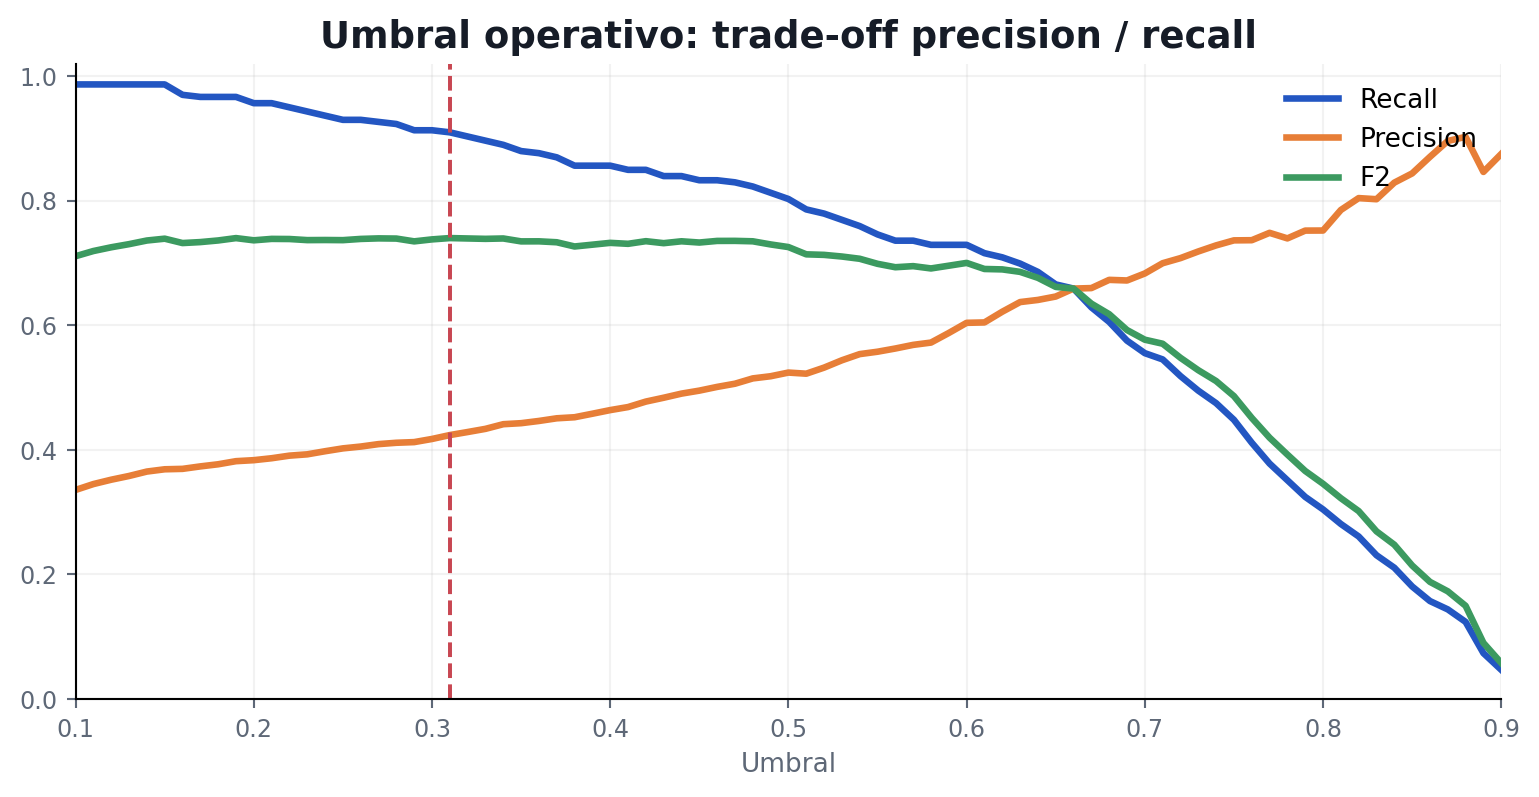
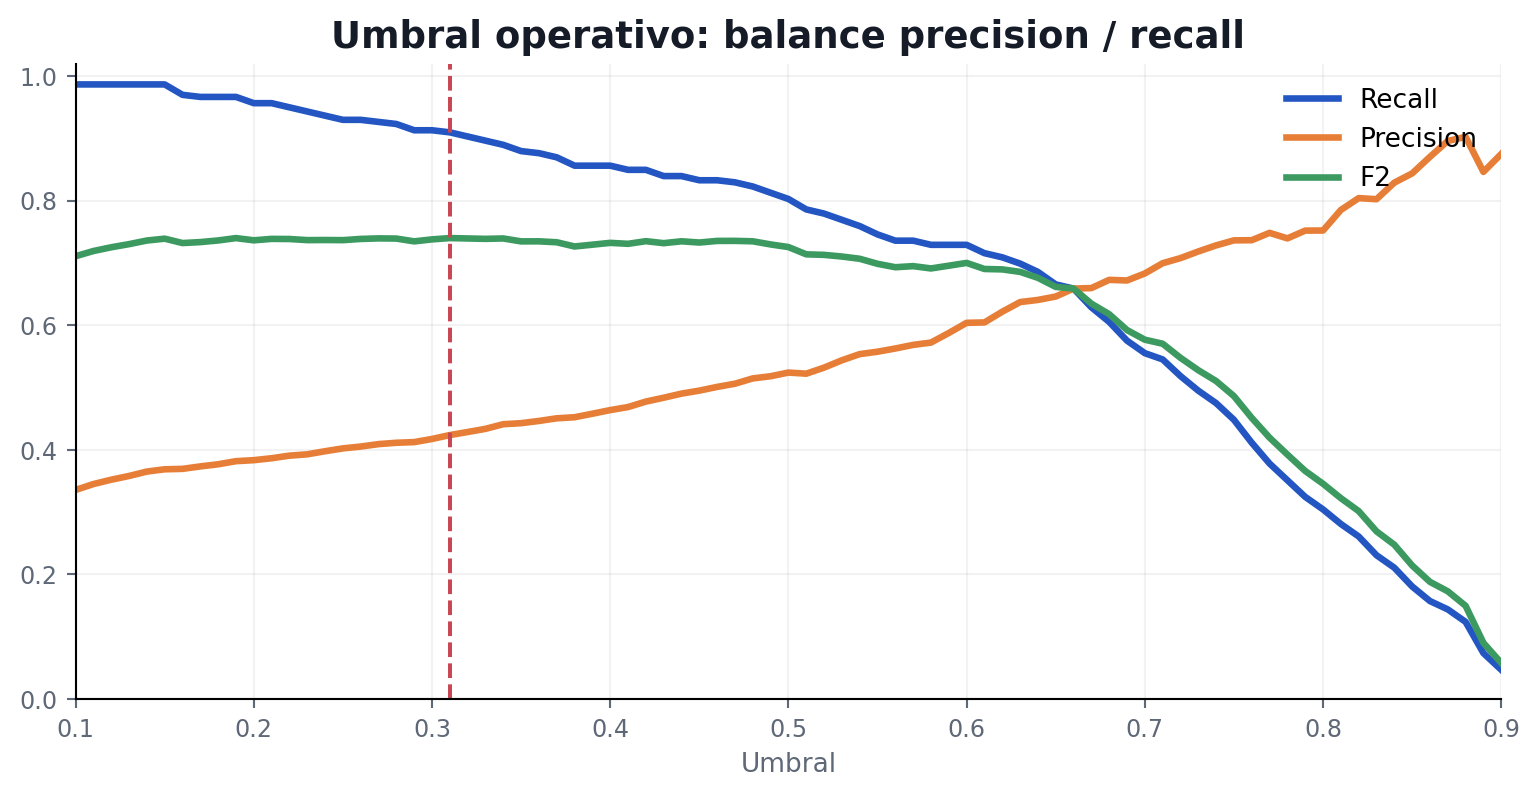
Revise final presentation content

Changed region(s): [[0.1871, 0.0301, 0.8421, 0.0602]]

diff --git a/presentation/final/build_redesigned_presentation.py b/presentation/final/build_redesigned_presentation.py
@@ -83,45 +83,33 @@ def style_ax(ax):
 
 
 def make_assets(df, metrics, cv, thresholds, preds, perm, shap):
-    # EDA: churn rate vs multiple variables/categories.
+    # EDA: churn rate vs multiple variables/categories. More legible grouped bars.
     variables = {
         "Contract": "Contrato",
         "InternetService": "Internet",
-        "PaymentMethod": "Pago",
+        "PaymentMethod": "Metodo de pago",
         "OnlineSecurity": "Seguridad online",
         "TechSupport": "Soporte tecnico",
         "PaperlessBilling": "Factura digital",
-        "Dependents": "Dependientes",
-        "Partner": "Pareja",
     }
     rows = []
     for col, label in variables.items():
-        rates = df.groupby(col)["churn_num"].mean().sort_values()
+        rates = df.groupby(col)["churn_num"].mean().sort_values(ascending=False)
         for cat, rate in rates.items():
-            rows.append({"variable": label, "category": str(cat), "rate": rate})
-    plot = pd.DataFrame(rows)
-    order = (
-        plot.groupby("variable")["rate"].agg(lambda s: s.max() - s.min())
-        .sort_values(ascending=True)
-        .index.tolist()
-    )
-    y_map = {v: i for i, v in enumerate(order)}
-    fig, ax = plt.subplots(figsize=(9.2, 5.0))
-    for variable in order:
-        sub = plot[plot["variable"] == variable]
-        y = y_map[variable]
-        ax.plot([sub["rate"].min(), sub["rate"].max()], [y, y], color=M["line"], linewidth=4, zorder=1)
-        for _, r in sub.iterrows():
-            color = M["orange"] if r["rate"] >= df["churn_num"].mean() else M["blue"]
-            ax.scatter(r["rate"], y, s=95, color=color, edgecolor="white", linewidth=1.2, zorder=3)
-            ax.text(r["rate"] + 0.009, y + 0.06, r["category"][:18], fontsize=8, color=M["muted"])
+            rows.append({"variable": label, "category": str(cat), "label": f"{label}: {str(cat)}", "rate": rate})
+    plot = pd.DataFrame(rows).sort_values("rate", ascending=True)
+    fig, ax = plt.subplots(figsize=(9.5, 5.2))
+    colors = [M["orange"] if v >= df["churn_num"].mean() else M["blue"] for v in plot["rate"]]
+    ax.barh(plot["label"], plot["rate"], color=colors, height=0.58)
     ax.axvline(df["churn_num"].mean(), color=M["red"], linestyle="--", linewidth=1.5)
-    ax.text(df["churn_num"].mean() + 0.01, len(order) - 0.45, f"media {pct(df['churn_num'].mean())}", color=M["red"], fontsize=9, weight="bold")
-    ax.set_yticks(range(len(order)), order)
-    ax.set_xlim(0, 0.5)
-    ax.set_xlabel("Tasa de churn por categoria")
-    ax.set_title("Tasa de churn cruzada por variables relevantes", fontsize=14, weight="bold")
+    ax.text(df["churn_num"].mean() + 0.008, -0.75, f"media {pct(df['churn_num'].mean())}", color=M["red"], fontsize=9, weight="bold")
+    for i, r in enumerate(plot.itertuples()):
+        ax.text(r.rate + 0.006, i, pct(r.rate), va="center", fontsize=8.8, color=M["ink"], weight="bold")
+    ax.set_xlim(0, 0.52)
+    ax.set_xlabel("Tasa de churn")
+    ax.set_title("Tasa de churn por categoria: principales variables", fontsize=14, weight="bold")
     style_ax(ax)
+    ax.grid(axis="x", alpha=0.18)
     save(ASSETS / "eda_churn_rate_variables.png")
 
     # Model PR-AUC with 10 tests.
@@ -178,10 +166,24 @@ def make_assets(df, metrics, cv, thresholds, preds, perm, shap):
     ax.set_xlim(0.1, 0.9)
     ax.set_ylim(0, 1.02)
     ax.set_xlabel("Umbral")
-    ax.set_title("Umbral operativo: trade-off precision / recall", fontsize=14, weight="bold")
+    ax.set_title("Umbral operativo: balance precision / recall", fontsize=14, weight="bold")
     ax.legend(frameon=False, loc="upper right")
     style_ax(ax)
     save(ASSETS / "threshold_precision_recall.png")
+
+    # Confusion matrix.
+    cm = pd.crosstab(preds["y_true_label"], preds["churn_prediction_label"]).reindex(index=["No", "Yes"], columns=["No", "Yes"], fill_value=0)
+    fig, ax = plt.subplots(figsize=(5.0, 4.2))
+    im = ax.imshow(cm.values, cmap="Blues")
+    ax.set_xticks([0, 1], ["Pred No", "Pred Churn"])
+    ax.set_yticks([0, 1], ["Real No", "Real Churn"])
+    ax.set_title("Matriz de confusion en test", fontsize=14, weight="bold")
+    for i in range(2):
+        for j in range(2):
+            ax.text(j, i, str(cm.values[i, j]), ha="center", va="center", fontsize=17, weight="bold", color=M["ink"])
+    ax.tick_params(labelsize=10)
+    plt.colorbar(im, ax=ax, fraction=0.046, pad=0.04)
+    save(ASSETS / "confusion_matrix.png")
 
     # Feature importance.
     top = perm.head(10).sort_values("importance_mean")
@@ -199,23 +201,6 @@ def make_assets(df, metrics, cv, thresholds, preds, perm, shap):
     ax.set_title("SHAP global del modelo final", fontsize=14, weight="bold")
     style_ax(ax)
     save(ASSETS / "importance_shap.png")
-
-    # Capture curve.
-    ranked = preds.sort_values("churn_probability", ascending=False).copy()
-    ranked["portfolio_share"] = np.arange(1, len(ranked) + 1) / len(ranked)
-    ranked["captured_churn"] = ranked["y_true"].cumsum() / ranked["y_true"].sum()
-    fig, ax = plt.subplots(figsize=(7.8, 4.3))
-    ax.plot(ranked["portfolio_share"], ranked["captured_churn"], color=M["blue"], linewidth=2.8)
-    ax.plot([0, 1], [0, 1], color=M["muted"], linestyle="--")
-    for cut in [0.2, 0.4, 0.6]:
-        captured = ranked.loc[ranked["portfolio_share"] <= cut, "y_true"].sum() / ranked["y_true"].sum()
-        ax.scatter([cut], [captured], color=M["orange"], s=70)
-        ax.text(cut + 0.02, captured, f"Top {int(cut*100)}%: {pct(captured,0)}", fontsize=9, weight="bold")
-    ax.set_xlabel("Porcentaje de cartera accionada")
-    ax.set_ylabel("Churners capturados")
-    ax.set_title("Curva de captura de churners", fontsize=14, weight="bold")
-    style_ax(ax)
-    save(ASSETS / "capture_curve.png")
 
 
 def add_bg(slide):
@@ -292,6 +277,10 @@ def footer(slide, n):
     textbox(slide, f"Churn Telco · Examen Final · {n:02d}", 0.48, 5.28, 4.5, 0.18, 7.5, MUTED)
 
 
+def small_note(slide, text, x, y, w, h, color=MUTED):
+    return textbox(slide, text, x, y, w, h, 9.5, color)
+
+
 def build_deck(df, metrics, cv, preds, checks):
     prs = Presentation()
     prs.slide_width = Inches(10)
@@ -304,135 +293,159 @@ def build_deck(df, metrics, cv, preds, checks):
         footer(s, n)
         return s
 
+    raw_predictors = 19
+    total_vars = 21
+    churn_count = int(df["churn_num"].sum())
+    no_churn_count = int(len(df) - churn_count)
+
     # 1 portada
     s = prs.slides.add_slide(prs.slide_layouts[6])
     bg = s.shapes.add_shape(1, 0, 0, Inches(10), Inches(5.625))
     bg.fill.solid(); bg.fill.fore_color.rgb = INK; bg.line.fill.background()
-    textbox(s, "ANALISIS PREDICTIVO · EXAMEN FINAL", 0.6, 0.55, 5.5, 0.3, 9.5, RGBColor(146, 196, 255), True)
+    textbox(s, "ANALISIS PREDICTIVO - EXAMEN FINAL", 0.6, 0.55, 5.5, 0.3, 9.5, RGBColor(146, 196, 255), True)
     textbox(s, "Prediccion de churn en clientes Telco", 0.6, 1.15, 6.8, 0.95, 31, WHITE, True)
-    textbox(s, "Modelo final CatBoost · seleccion por PR-AUC · umbral optimizado por F2", 0.64, 2.1, 6.8, 0.35, 13, RGBColor(205, 215, 230))
-    card(s, "CHURN", pct(df["churn_num"].mean()), "tasa observada", 0.75, 3.55, 1.7, 0.95, ORANGE)
-    card(s, "CLIENTES", f"{len(df):,}".replace(",", "."), "dataset IBM", 2.75, 3.55, 1.7, 0.95, TEAL)
-    card(s, "PR-AUC TEST", num(metrics["test_pr_auc"]), "modelo final", 4.75, 3.55, 1.7, 0.95, GREEN)
-    card(s, "RECALL", pct(metrics["test_recall"]), "umbral 0.31", 6.75, 3.55, 1.7, 0.95, BLUE)
+    textbox(s, "Caso de negocio, modelo predictivo y accion comercial sobre clientes con riesgo de baja", 0.64, 2.1, 7.3, 0.35, 13, RGBColor(205, 215, 230))
+    card(s, "CLIENTES", f"{len(df):,}".replace(",", "."), "dataset IBM", 0.75, 3.55, 1.7, 0.95, TEAL)
+    card(s, "CHURN", pct(df["churn_num"].mean()), f"{churn_count} clientes", 2.75, 3.55, 1.7, 0.95, ORANGE)
+    card(s, "MODELO", "CatBoost", "mejor PR-AUC", 4.75, 3.55, 1.7, 0.95, GREEN)
+    card(s, "RECALL", pct(metrics["test_recall"]), "test", 6.75, 3.55, 1.7, 0.95, BLUE)
 
-    # 2 caso
-    s = new("1 · Caso de negocio", "Priorizar retencion antes de que ocurra la baja", 2)
+    # 2 caso de negocio
+    s = new("1 - Caso de negocio", "Predecir churn para priorizar retencion rentable", 2)
+    card(s, "TARGET", "Churn", "Yes si el cliente se dio de baja", 0.65, 1.32, 2.1, 0.95, ORANGE)
+    card(s, "BASE", f"{len(df):,}".replace(",", "."), f"{churn_count} churners vs {no_churn_count} no churn", 3.0, 1.32, 2.1, 0.95, TEAL)
+    card(s, "TASA", pct(df["churn_num"].mean()), "clase positiva minoritaria", 5.35, 1.32, 1.65, 0.95, RED)
+    card(s, "OBJETIVO", "score", "probabilidad de churn por cliente", 7.25, 1.32, 2.0, 0.95, BLUE)
     bullets(s, [
-        "Objetivo: estimar riesgo de churn por cliente activo.",
-        "Decision: ordenar la cartera para acciones de retencion.",
-        "Valor: usar datos de contrato, servicios y facturacion para llegar antes.",
-        "Trade-off: priorizamos recall, pero monitoreamos precision para no sobreactuar."
-    ], 0.7, 1.45, 5.2, 2.25, 14)
-    card(s, "SALIDA", "score", "probabilidad de churn", 6.35, 1.45, 2.6, 0.95, BLUE)
-    card(s, "USO", "ranking", "agenda de retencion", 6.35, 2.65, 2.6, 0.95, GREEN)
-    card(s, "RIESGO", "falsos +", "costo comercial", 6.35, 3.85, 2.6, 0.95, RED)
+        "Problema: una telco pierde ingreso recurrente cuando un cliente abandona el servicio.",
+        "Decision de negocio: ordenar clientes activos por riesgo y priorizar acciones de retencion.",
+        "Regla economica: adquirir un cliente nuevo suele costar 5 a 25 veces mas que retener uno existente (HBR/Bain).",
+        "Impacto esperado: incluso mejoras chicas de retencion pueden tener efecto grande en rentabilidad; el modelo ayuda a enfocar el esfuerzo comercial."
+    ], 0.78, 2.75, 8.5, 1.55, 12.2)
+    small_note(s, "Nota: el modelo no decide la oferta; entrega un ranking para que negocio defina accion, costo y capacidad.", 0.85, 4.75, 8.2, 0.28)
 
     # 3 dataset
-    s = new("2 · Dataset", "7.043 clientes, 21 variables y una clase positiva minoritaria", 3)
-    card(s, "TARGET", "Churn", "Yes / No", 0.65, 1.35, 1.8, 1.0, ORANGE)
-    card(s, "POSITIVOS", pct(df["churn_num"].mean()), "churn real", 2.75, 1.35, 1.8, 1.0, RED)
-    card(s, "LIMPIEZA", "11", "TotalCharges vacio, tenure=0", 4.85, 1.35, 2.1, 1.0, TEAL)
-    card(s, "FEATURES", "originales + FE", "sin target encoding", 7.25, 1.35, 2.0, 1.0, BLUE)
-    bullets(s, [
-        "Variables demograficas: genero, senior, pareja, dependientes.",
-        "Servicios: internet, seguridad, soporte, backup, streaming.",
-        "Contrato/facturacion: tenure, tipo de contrato, metodo de pago, cargos.",
-        "Limitacion estructural: no hay fecha de corte ni historial temporal."
-    ], 0.8, 2.95, 8.5, 1.45, 12.5)
+    s = new("2 - Dataset", "Variables predictoras agrupadas y limpieza realizada", 3)
+    card(s, "TOTAL", str(total_vars), "columnas originales", 0.55, 1.25, 1.55, 0.82, BLUE)
+    card(s, "PREDICTORAS", str(raw_predictors), "sin customerID ni Churn", 2.28, 1.25, 1.75, 0.82, GREEN)
+    card(s, "TARGET", "1", "Churn", 4.23, 1.25, 1.25, 0.82, ORANGE)
+    card(s, "ID", "1", "excluido del modelo", 5.68, 1.25, 1.45, 0.82, RED)
+    card(s, "LIMPIEZA", "11", "TotalCharges vacio", 7.35, 1.25, 1.9, 0.82, TEAL)
+    rows = [
+        "Demograficas (4): genero, senior, pareja, dependientes. Senal baja/moderada; dependientes y pareja reducen churn observado.",
+        "Servicios (9): telefono, internet, seguridad, backup, proteccion, soporte, streaming. Fibra y falta de soporte/seguridad elevan riesgo.",
+        "Contrato (2): tenure y tipo de contrato. Contrato mensual y baja antiguedad son los drivers mas fuertes.",
+        "Facturacion (4): paperless, metodo de pago, MonthlyCharges, TotalCharges. Pago electronico y ciertos niveles de cargo aportan senal."
+    ]
+    bullets(s, rows, 0.75, 2.45, 8.6, 1.9, 11.3)
+    small_note(s, "Limpieza: TotalCharges venia como texto; los 11 vacios correspondian a clientes nuevos con tenure = 0 y se imputaron como 0. Se agregaron features derivadas reproducibles.", 0.78, 4.72, 8.5, 0.35)
 
     # 4 EDA
-    s = new("3 · EDA", "La tasa de churn cambia mucho segun contrato, servicio y soporte", 4)
-    image(s, ASSETS / "eda_churn_rate_variables.png", 0.55, 1.25, 8.95)
+    s = new("3 - EDA", "La tasa de churn varia fuerte por categoria", 4)
+    image(s, ASSETS / "eda_churn_rate_variables.png", 0.55, 1.18, 8.9)
+    small_note(s, "Lectura: contrato mensual, fibra optica y ausencia de soporte/seguridad se ubican por encima de la media de churn. Esto anticipa variables importantes del modelo.", 0.75, 4.88, 8.45, 0.3)
 
-    # 5 EDA 2
-    s = new("3 · EDA", "El patron principal: clientes nuevos y poco anclados", 5)
-    image(s, ASSETS / "eda_target_tenure.png", 0.6, 1.3, 5.0)
+    # 5 evaluacion metricas
+    s = new("4 - Evaluacion", "Por que PR-AUC para modelo y F2 para umbral", 5)
+    card(s, "DESBALANCE", pct(df["churn_num"].mean()), "churn positivo", 0.65, 1.35, 1.9, 0.95, RED)
+    card(s, "NO SKILL", num(df["churn_num"].mean()), "PR-AUC base", 2.85, 1.35, 1.8, 0.95, ORANGE)
+    card(s, "PR-AUC", "ranking", "compara modelos", 4.95, 1.35, 1.8, 0.95, BLUE)
+    card(s, "F2", "umbral", "prioriza recall", 7.05, 1.35, 1.8, 0.95, GREEN)
     bullets(s, [
-        "Contrato mensual y baja antiguedad concentran mayor riesgo.",
-        "Fibra optica aparece como señal predictiva relevante.",
-        "Servicios de soporte/seguridad reducen riesgo observado.",
-        "Estas relaciones son asociaciones predictivas, no causalidad."
-    ], 6.05, 1.55, 3.25, 2.5, 12.5)
+        "Accuracy engana: predecir siempre No Churn acierta 73,5% pero no detecta ningun churner.",
+        "PR-AUC evalua si el modelo pone arriba del ranking a los clientes que realmente churnean.",
+        "F2 se usa despues para elegir el punto de corte: pesa mas recall, pero precision sigue entrando en la formula.",
+        "Separar ranking y umbral evita mezclar dos decisiones distintas."
+    ], 0.9, 2.8, 8.1, 1.55, 12.5)
 
-    # 6 evaluacion
-    s = new("4 · Evaluacion", "PR-AUC para elegir modelo; F2 para elegir umbral", 6)
-    card(s, "TRAIN", "5.634", "80%, estratificado", 0.65, 1.35, 1.8, 1.0, BLUE)
-    card(s, "TEST", "1.409", "20%, cerrado", 2.75, 1.35, 1.8, 1.0, TEAL)
-    card(s, "CV", "3 folds", "solo train", 4.85, 1.35, 1.8, 1.0, GREEN)
-    card(s, "NO SKILL", num(df["churn_num"].mean()), "PR-AUC base", 6.95, 1.35, 1.8, 1.0, RED)
+    # 6 validacion
+    s = new("4 - Evaluacion", "Validacion: todo se decide dentro de train", 6)
+    card(s, "TRAIN", "5.634", "80%, estratificado", 0.75, 1.35, 1.7, 0.95, BLUE)
+    card(s, "TEST", "1.409", "20%, cerrado", 2.75, 1.35, 1.7, 0.95, TEAL)
+    card(s, "CV", "3 folds", "solo train", 4.75, 1.35, 1.7, 0.95, GREEN)
+    card(s, "SEED", "42", "reproducible", 6.75, 1.35, 1.7, 0.95, VIOLET)
     bullets(s, [
-        "PR-AUC mide la calidad del ranking en una clase positiva minoritaria.",
-        "F2 prioriza recall para el punto operativo, sin ignorar precision.",
-        "El test no se usa para tuning, seleccion de modelo ni seleccion de umbral.",
-        "Pipeline: imputacion, escalado y one-hot se ajustan dentro de cada fold."
-    ], 0.85, 3.0, 8.4, 1.4, 12.5)
+        "Split estratificado: la proporcion de churn queda estable en train y test.",
+        "GridSearchCV: cada modelo se compara con la misma validacion cruzada y la misma metrica PR-AUC.",
+        "Pipeline: imputacion, escalado y one-hot se ajustan dentro de cada fold, evitando leakage de preprocesamiento.",
+        "El umbral se elige en validacion interna del train; el test se usa una sola vez para reportar performance final."
+    ], 0.95, 2.85, 8.0, 1.45, 12.3)
 
     # 7 baseline
-    s = new("5 · Baseline", "La regresion logistica deja una vara alta e interpretable", 7)
+    s = new("5 - Baseline", "Baseline paso a paso: Dummy y regresion logistica", 7)
     cvi = cv.set_index("model")
-    card(s, "DUMMY PR-AUC", num(cvi.loc["dummy_most_frequent", "pr_auc_mean"]), "sin informacion", 0.8, 1.45, 2.0, 1.0, RED)
-    card(s, "LOGISTIC PR-AUC", num(cvi.loc["logistic_regression", "pr_auc_mean"]), "baseline fuerte", 3.1, 1.45, 2.0, 1.0, BLUE)
-    card(s, "LOGISTIC F2", num(cvi.loc["logistic_regression", "f2_mean"]), "recall alto", 5.4, 1.45, 2.0, 1.0, GREEN)
+    card(s, "Dummy", num(cvi.loc["dummy_most_frequent", "pr_auc_mean"]), "predice clase mayoritaria", 0.7, 1.35, 2.1, 0.95, RED)
+    card(s, "Logistic", num(cvi.loc["logistic_regression", "pr_auc_mean"]), "PR-AUC CV", 3.05, 1.35, 2.1, 0.95, BLUE)
+    card(s, "Predictoras", str(raw_predictors), "variables originales + FE", 5.4, 1.35, 2.1, 0.95, GREEN)
+    card(s, "Logistic F2", num(cvi.loc["logistic_regression", "f2_mean"]), "baseline fuerte", 7.75, 1.35, 1.55, 0.95, ORANGE)
     bullets(s, [
-        "La logistica queda cerca de CatBoost: el problema tiene señal lineal fuerte.",
-        "Se usa como baseline interpretable para exigir que modelos complejos justifiquen su mejora.",
-        "El dummy confirma que accuracy no alcanza: predecir siempre No Churn no sirve para retener."
-    ], 1.05, 3.05, 7.9, 1.25, 13)
+        "1. Dummy sirve como piso: si un modelo no supera la prevalencia en PR-AUC, no aporta informacion.",
+        "2. Regresion logistica es baseline real: simple, interpretable y rapida de entrenar.",
+        "3. Usa el mismo pipeline y las mismas variables que los modelos complejos, por eso la comparacion es justa.",
+        "4. Queda cerca del ganador, lo que muestra que el problema tiene senal clara y no depende solo de modelos sofisticados."
+    ], 0.85, 2.75, 8.4, 1.7, 12.2)
 
     # 8 seleccion
-    s = new("6 · Seleccion de modelos", "10 pruebas comparadas por PR-AUC", 8)
-    image(s, ASSETS / "modelos_10_prauc.png", 0.55, 1.22, 6.45)
-    top = cv.sort_values("pr_auc_mean", ascending=False).head(3)
-    y = 1.45
-    for _, r in top.iterrows():
-        card(s, r["model"], num(r["pr_auc_mean"]), f"F2 {num(r['f2_mean'])} · Precision {num(r['precision_mean'])}", 7.25, y, 2.25, 0.78, ORANGE if r["model"] == metrics["selected_model"] else BLUE)
-        y += 0.95
-    textbox(s, "CatBoost gana por poco. Logistic y Gradient Boosting quedan cerca, por eso se reporta el ranking completo y no solo el ganador.", 7.25, 4.3, 2.25, 0.7, 9.8, MUTED)
+    s = new("6 - Seleccion de modelos", "10 pruebas comparadas por PR-AUC", 8)
+    image(s, ASSETS / "modelos_10_prauc.png", 0.55, 1.12, 5.85)
+    bullets(s, [
+        "CatBoost queda primero por PR-AUC, pero la diferencia con Gradient Boosting y Logistic es chica.",
+        "Gradient Boosting clasico logra mayor precision, pero menor recall: es mas conservador.",
+        "Logistic Regression confirma una senal lineal fuerte y funciona como alternativa simple de defensa.",
+        "LightGBM fue probado; en esta grilla no supera a CatBoost ni a los baselines fuertes."
+    ], 6.55, 1.38, 3.0, 2.65, 11.2)
+    small_note(s, "Conclusion: el ganador no se elige por marketing del algoritmo, sino por PR-AUC bajo la misma validacion.", 6.55, 4.45, 3.0, 0.45)
 
     # 9 modelo final
-    s = new("7 · Modelo final", "CatBoost: mejor PR-AUC y umbral F2 = 0.31", 9)
-    card(s, "PR-AUC", num(metrics["test_pr_auc"]), "test", 0.6, 1.35, 1.55, 0.95, ORANGE)
-    card(s, "ROC-AUC", num(metrics["test_roc_auc"]), "test", 2.35, 1.35, 1.55, 0.95, BLUE)
-    card(s, "Recall", pct(metrics["test_recall"]), "detecta churn", 4.1, 1.35, 1.55, 0.95, GREEN)
-    card(s, "Precision", pct(metrics["test_precision"]), "contactos utiles", 5.85, 1.35, 1.55, 0.95, RED)
-    card(s, "F2", num(metrics["test_f2"]), "umbral", 7.6, 1.35, 1.55, 0.95, TEAL)
-    image(s, ASSETS / "threshold_precision_recall.png", 0.75, 2.75, 5.2)
-    image(s, ASSETS / "capture_curve.png", 5.95, 2.75, 3.45)
+    s = new("7 - Modelo final", "CatBoost: buen ranking y umbral orientado a detectar churn", 9)
+    card(s, "PR-AUC", num(metrics["test_pr_auc"]), "test", 0.6, 1.25, 1.55, 0.85, ORANGE)
+    card(s, "Recall", pct(metrics["test_recall"]), "test", 2.35, 1.25, 1.55, 0.85, GREEN)
+    card(s, "Precision", pct(metrics["test_precision"]), "test", 4.1, 1.25, 1.55, 0.85, RED)
+    card(s, "F2", num(metrics["test_f2"]), "umbral 0.31", 5.85, 1.25, 1.55, 0.85, BLUE)
+    card(s, "Accionados", pct(metrics["positive_rate_predicted_test"]), "del test", 7.6, 1.25, 1.55, 0.85, VIOLET)
+    image(s, ASSETS / "threshold_precision_recall.png", 0.62, 2.45, 4.85)
+    image(s, ASSETS / "confusion_matrix.png", 5.95, 2.25, 3.05)
+    small_note(s, "El umbral 0.31 prioriza recall: captura gran parte de los churners, a costa de falsos positivos. En negocio real, el corte deberia ajustarse por costo/capacidad.", 0.82, 4.88, 8.3, 0.32)
 
     # 10 interpretacion
-    s = new("7 · Modelo final", "Interpretacion: contrato, tenure y señales de servicio", 10)
-    image(s, ASSETS / "importance_permutation.png", 0.55, 1.25, 4.65)
-    image(s, ASSETS / "importance_shap.png", 5.05, 1.25, 4.55)
-    textbox(s, "Permutation importance esta alineada a F2; SHAP resume impacto global. No es causalidad: es señal predictiva para priorizar.", 0.85, 4.85, 8.2, 0.35, 10.5, MUTED, align=PP_ALIGN.CENTER)
+    s = new("7 - Modelo final", "Interpretacion: consistente con el EDA", 10)
+    image(s, ASSETS / "importance_permutation.png", 0.55, 1.18, 4.65)
+    image(s, ASSETS / "importance_shap.png", 5.05, 1.18, 4.55)
+    textbox(s, "Conclusion: contrato mensual, baja antiguedad, cargos acumulados y senales de soporte/seguridad vuelven a aparecer como drivers predictivos. Esto coincide con el EDA, pero no implica causalidad.", 0.85, 4.78, 8.25, 0.48, 10.5, MUTED, align=PP_ALIGN.CENTER)
 
-    # 11 limitaciones
-    s = new("8 · Limitaciones / mejoras", "La mayor mejora no es otro algoritmo: son datos y decision", 11)
+    # 11 limitaciones y mejoras
+    s = new("8 - Limitaciones / mejoras", "Que falta para llevarlo a una decision productiva", 11)
+    textbox(s, "Limitaciones", 0.75, 1.35, 3.8, 0.3, 16, INK, True)
     bullets(s, [
-        "No hay corte temporal real: validar con meses futuros seria la mejora metodologica mas importante.",
-        "Precision moderada: el umbral debe ajustarse con costos reales y capacidad comercial.",
-        "Variables redundantes: algunas originales y derivadas comparten informacion.",
-        "Agregar reclamos, uso real, tickets, promociones, cambios de plan y satisfaccion.",
-        "Uplift modeling: contactar clientes persuadibles, no solo clientes con alto riesgo."
-    ], 0.8, 1.45, 8.3, 2.5, 13)
-    card(s, "LEAKAGE", "sin señal grave", "ID fuera, target fuera, pipeline por fold", 0.9, 4.25, 2.5, 0.85, GREEN)
-    card(s, "OVERFIT", "controlado", "gap F2 bajo/moderado", 3.75, 4.25, 2.5, 0.85, BLUE)
-    card(s, "PROXIMO PASO", "costos", "umbral por valor esperado", 6.6, 4.25, 2.5, 0.85, ORANGE)
+        "Dataset sin dimension temporal: no simula pasado a futuro.",
+        "No hay costos reales de contacto, oferta ni perdida de cliente.",
+        "Precision moderada: muchas acciones comerciales no terminarian en churn real.",
+        "Variables redundantes entre originales y derivadas pueden repartir importancia.",
+        "No hay datos de reclamos, uso, satisfaccion ni competencia."
+    ], 0.75, 1.82, 4.0, 2.75, 11.5)
+    textbox(s, "Posibles mejoras", 5.25, 1.35, 3.8, 0.3, 16, INK, True)
+    bullets(s, [
+        "Validar con meses futuros y monitorear drift.",
+        "Elegir umbral por valor esperado: probabilidad x valor cliente x efectividad x costo.",
+        "Agregar tickets, NPS, uso de servicio, promociones y cambios de plan.",
+        "Calibrar probabilidades si el score se usa como ranking economico.",
+        "Probar uplift modeling para contactar clientes persuadibles."
+    ], 5.25, 1.82, 4.0, 2.75, 11.5)
 
     # 12 conclusiones
-    s = new("9 · Conclusiones", "Un ranking accionable para retencion", 12)
-    card(s, "METODO", "PR-AUC + F2", "ranking y decision", 0.75, 1.35, 2.35, 1.05, BLUE)
-    card(s, "MODELO", "CatBoost", "mejor CV", 3.4, 1.35, 2.35, 1.05, ORANGE)
-    card(s, "NEGOCIO", "priorizar", "agenda de retencion", 6.05, 1.35, 2.35, 1.05, GREEN)
+    s = new("9 - Conclusiones", "Un ranking accionable para priorizar retencion", 12)
+    card(s, "Mejor modelo", "CatBoost", "mejor PR-AUC en CV", 0.7, 1.25, 2.0, 0.95, ORANGE)
+    card(s, "PR-AUC test", num(metrics["test_pr_auc"]), "ranking", 3.0, 1.25, 1.8, 0.95, BLUE)
+    card(s, "Recall", pct(metrics["test_recall"]), "churn detectado", 5.1, 1.25, 1.8, 0.95, GREEN)
+    card(s, "Precision", pct(metrics["test_precision"]), "contactos utiles", 7.2, 1.25, 1.8, 0.95, RED)
     bullets(s, [
-        "El churn se concentra en perfiles con contrato mensual, baja antiguedad y menor anclaje de servicios.",
-        "CatBoost fue el mejor modelo por PR-AUC dentro de 10 pruebas comparables.",
-        "El umbral actual prioriza recall; debe calibrarse con costos y capacidad real.",
-        "El modelo es una herramienta de priorizacion, no una explicacion causal del abandono."
-    ], 0.95, 3.0, 8.1, 1.45, 13.5)
+        "El modelo permite ordenar clientes por riesgo y priorizar una agenda de retencion.",
+        "Los perfiles de mayor riesgo combinan contrato mensual, baja antiguedad y menor anclaje de servicios.",
+        "Accion sugerida: contactar primero clientes de alto score con propuestas de permanencia, soporte o beneficios segun valor del cliente.",
+        "Antes de produccion: definir costo de accion, capacidad del equipo y umbral por rentabilidad esperada."
+    ], 0.9, 2.85, 8.2, 1.55, 13)
 
     prs.save(PPTX)
-
 
 def main():
     df, metrics, cv, thresholds, preds, perm, shap, checks = load()